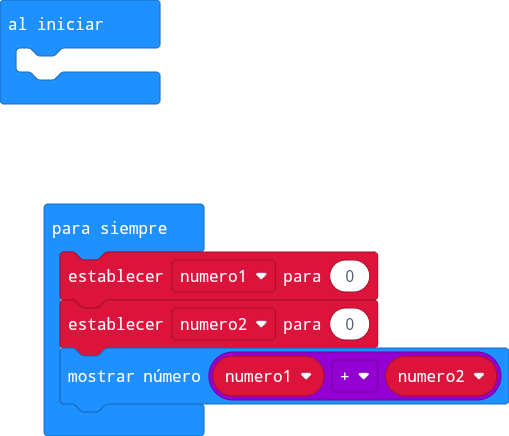
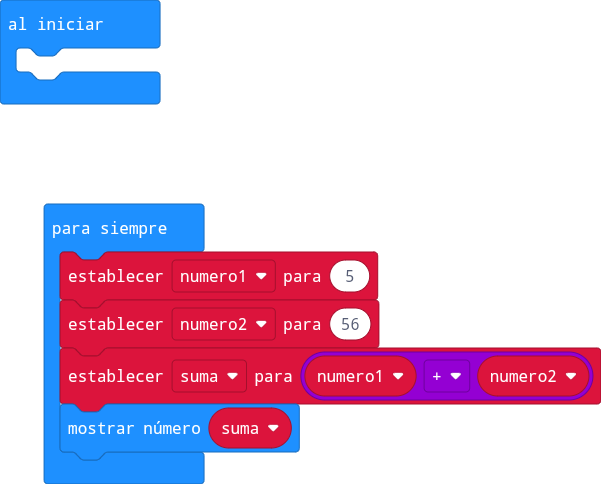
Actualizar main.blocks, main.ts

Changed region(s): [[0.0589, 0.4174, 1.0, 1.0], [0.0, 0.0, 0.3242, 0.2385]]

diff --git a/main.ts b/main.ts
@@ -1,7 +1,9 @@
 let numero1 = 0
 let numero2 = 0
+let suma = 0
 basic.forever(function () {
-    numero1 = 0
-    numero2 = 0
-    basic.showNumber(numero1 + numero2)
+    numero1 = 5
+    numero2 = 56
+    suma = numero1 + numero2
+    basic.showNumber(suma)
 })
